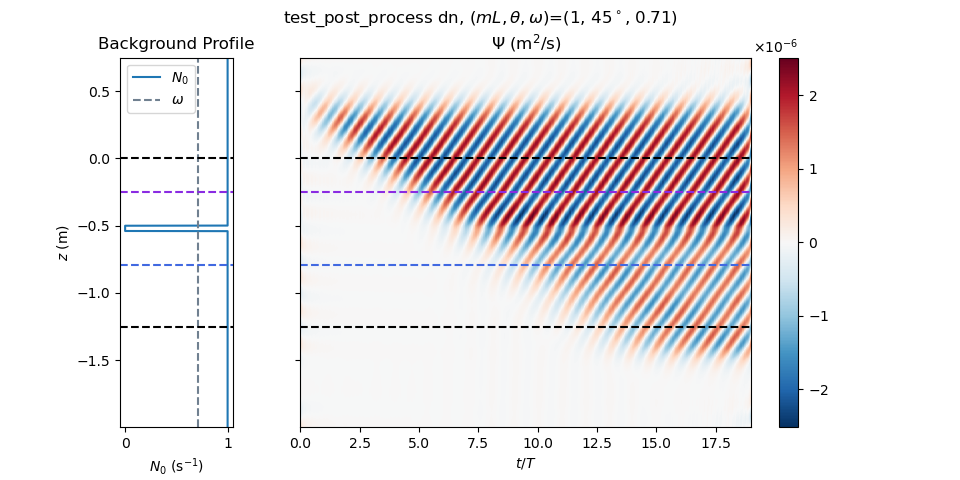
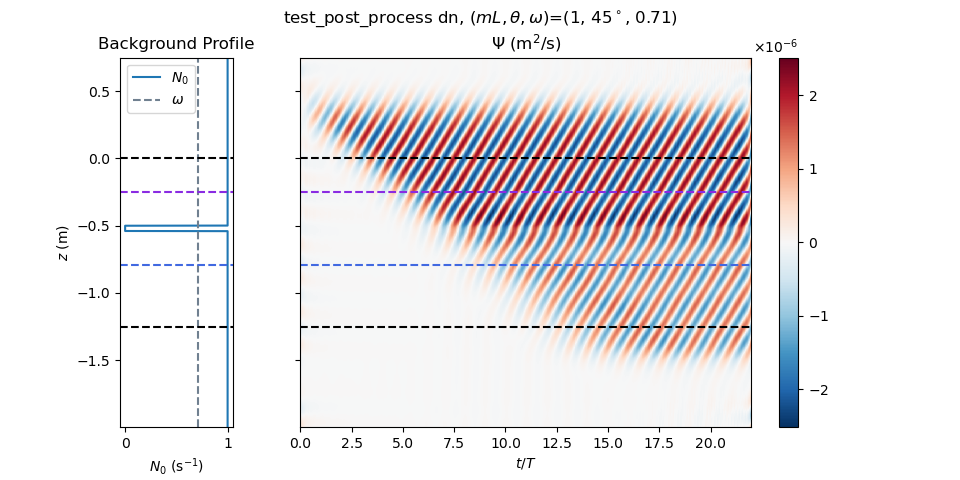
Extended T_cutoff to get rid of transient in FTs

Changed region(s): [[0.3125, 0.1875, 0.7812, 0.7812], [0.3438, 0.9062, 0.7812, 0.9375]]

diff --git a/switchboard.py b/switchboard.py
@@ -19,9 +19,9 @@ mL      = 1                     # [] vertical wave number times step length
 theta   = None                  # [] angle between wave's propagation and horizontal (or vertical?)
 
 # Time parameters
-p_n_steps   = 10                # [] power of the number of timesteps for the simulation
+p_n_steps   = 9                 # [] power of the number of timesteps for the simulation
 p_o_steps   = 6                 # [] power of the number of timesteps per oscillation period
-T_cutoff    = 3                 # [] number of oscillations to cut from beginning to leave just steady state
+T_cutoff    = 14                # [] number of oscillations to cut from beginning to leave just steady state
 #
 n_steps     = int(2**p_n_steps) # [] number of timesteps for the simulation
 o_steps     = int(2**p_o_steps) # [] number of timesteps per oscillation period
